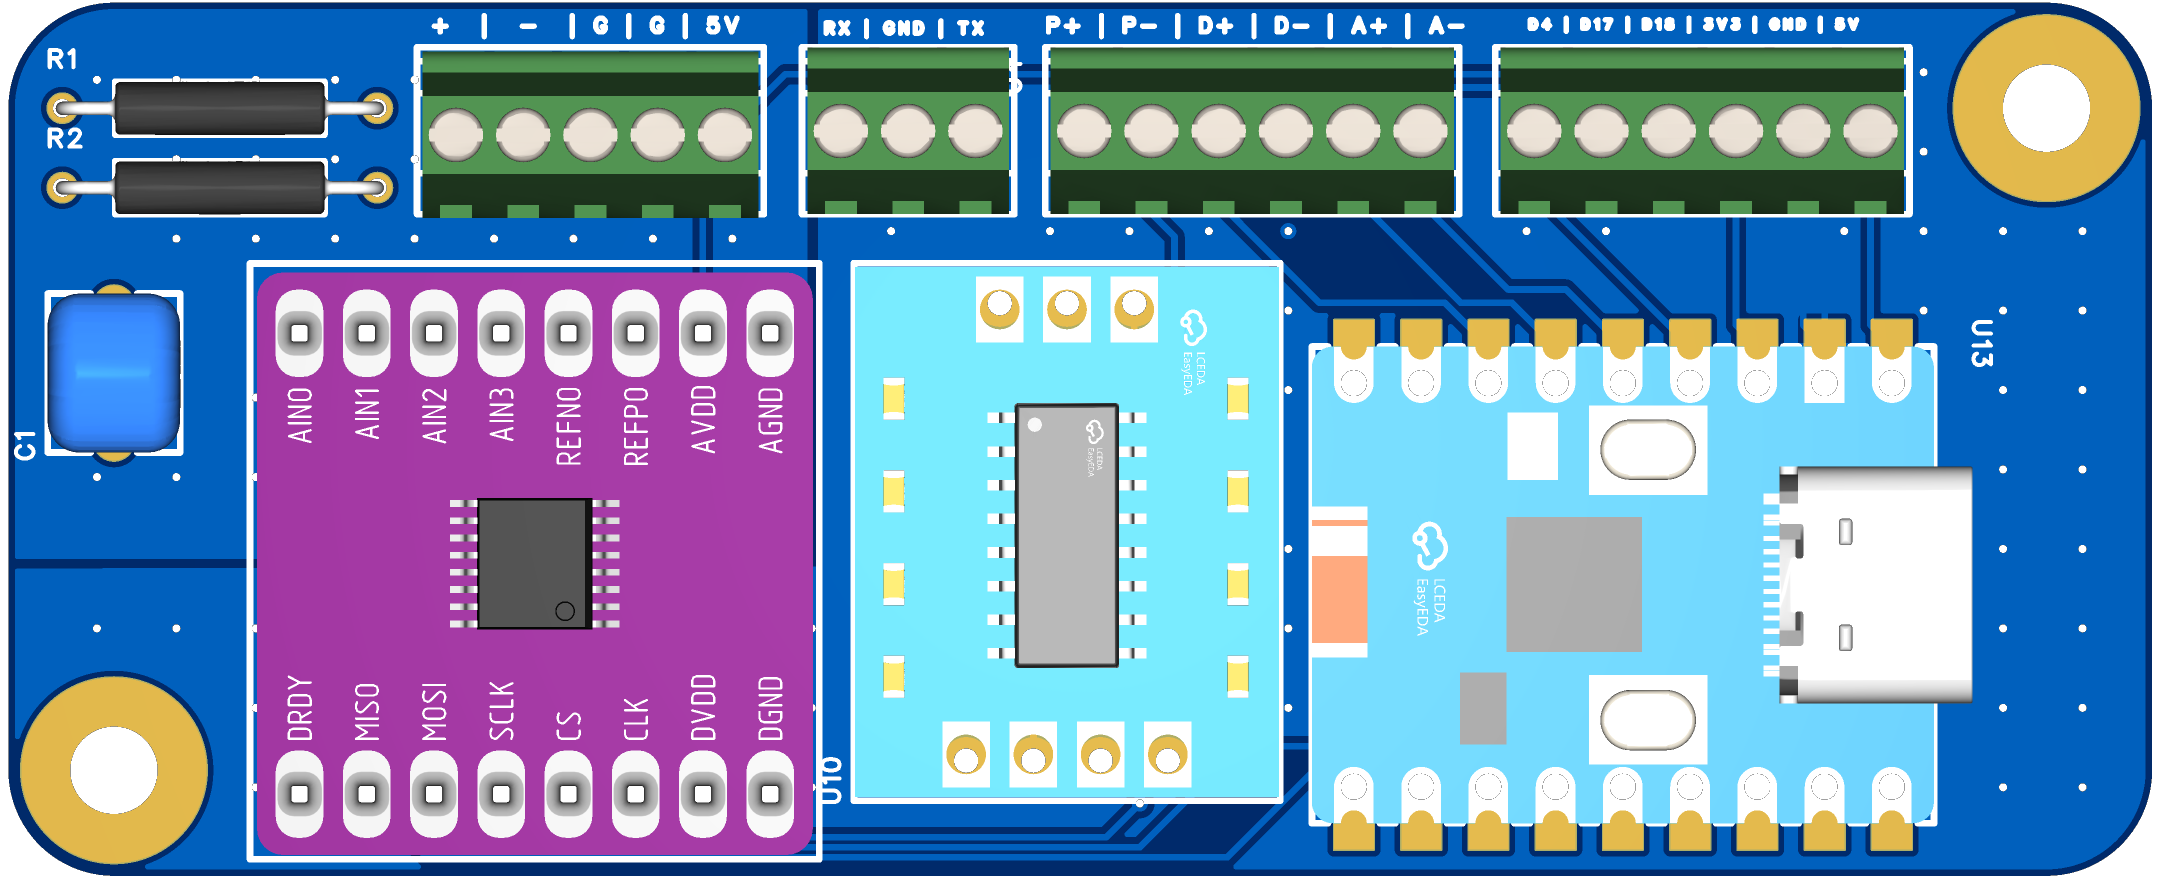
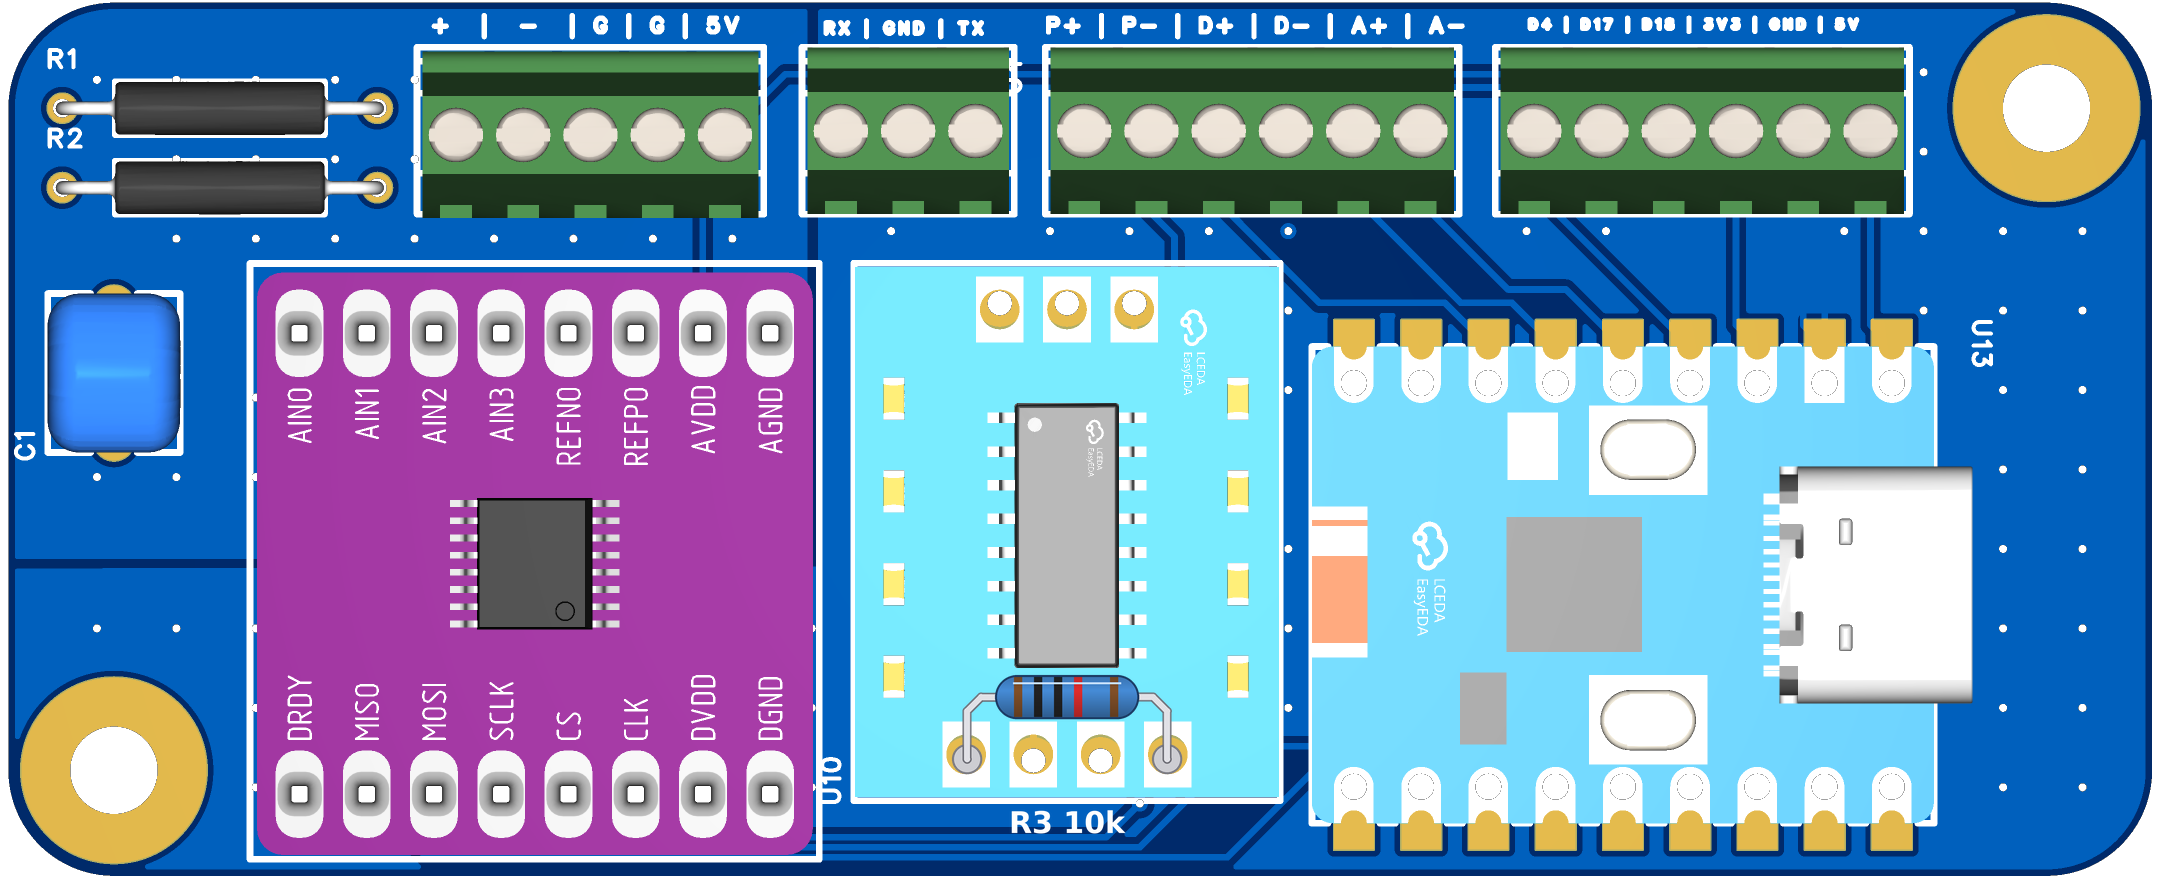
PCB V8: 10 kOhm pull-up on the SP3232 input (R3)
Without a pull-up the SP3232 TTL input RXD (ESP32 TX, GPIO 5) floats
between ESP32 power-on and setup(). The SP3232 reads it as LOW and
drives +5 V (break) to the servo RX; an iSV57 booting at that time goes
into a permanent alarm (red LED). A 10 kOhm resistor from RXD to VCC
(3.3 V) holds the idle level from the first moment.

- Soldering_V8/SP3232_PullUp.md: motivation, measurements (annotated
  oscilloscope traces with and without the pull-up), photos, pin table
  checked against the Gerber files
- Build guide: resistor in the parts list and solder step
- PCB render: R3 drawn between VCC and RXD of the SP3232 module
- Wiring/PcbV8/README: note that R3 is not part of the Gerber files

Changed region(s): [[0.4343, 0.7679, 0.5583, 0.8908], [0.4653, 0.9215, 0.5273, 0.9522]]

diff --git a/Soldering_V8/SP3232_PullUp.md b/Soldering_V8/SP3232_PullUp.md
@@ -1,0 +1,62 @@
+# 🔧 10 kΩ Pull-Up on the SP3232 Input (R3)
+
+A 10 kΩ resistor from the TTL input `RXD` of the SP3232 module to `VCC` (3.3 V) keeps the iSV57 servo from going into a permanent alarm (red LED) when it is switched on. The [build guide](README.md#1⃣-sp3232-assembly) shows how to solder it.
+
+<img src="../Wiring/PcbV8/PCB_V8_3D.png" width="100%">
+
+## ❓ Problem
+
+Sometimes the servo started with its red ALM LED on. In this state it does not move, and homing fails. Only switching its power supply off and on again helped. It only happened while the ESP32 was powered; with the ESP32 disconnected, the servo always started normally.
+
+<img src="img/sp3232_pullup/servo_led_alarm.jpg" width="500">
+
+*Servo with the ALM LED (red) on after power-on, next to the PWR LED (green).*
+
+## 🔍 Cause
+
+The ESP32 talks to the servo through the SP3232 RS232 module. The SP3232 inverts the signal:
+
+| ESP32 TX pin (TTL) | SP3232 RS232 output → servo RX | Meaning |
+| :--- | :--- | :--- |
+| HIGH (3.3 V) | about −5 V | idle ("mark"): the servo starts normally |
+| LOW (0 V) | about +5 V | permanent "space" / break: **the servo starts with the red LED** |
+
+Tests with a sketch that only sets fixed pin levels (no communication at all) showed: if the servo RX sees +5 V while the servo boots, it goes into the alarm. With −5 V it starts normally.
+
+The firmware sets the TX pin HIGH at the very beginning of `setup()`. But between powering on (or resetting) the ESP32 and that line, the ESP32 runs its ROM bootloader, second stage bootloader and the Arduino start-up. During this time the TX pin is an undriven input. The SP3232 already runs and reads it as LOW, so it drives **+5 V** to the servo RX until `setup()` sets the pin HIGH. The same happens while the ESP32 is flashed or if the firmware does not start.
+
+<img src="img/sp3232_pullup/scope_without_pullup.png" width="600">
+
+*Without pull-up. CH1 (yellow): SP3232 RS232 output to the servo RX. After the ESP32 is powered on, the output jumps to +5 V until the firmware sets the TX pin HIGH.*
+
+If the servo boots during this time, e.g. when the PC (USB) and the servo supply are switched on together, or the servo supply rises slowly behind an inrush current limiter, it sees the break and goes into the alarm.
+
+Firmware cannot fix this: no application code runs before `setup()`. It could only make the time shorter (custom bootloader hook), not remove it.
+
+## ✅ Solution
+
+A 10 kΩ pull-up from the SP3232 TTL input `RXD` (= ESP32 TX, GPIO 5 on the V8) to `VCC` (3.3 V) holds the input HIGH while the ESP32 pin is undriven. The SP3232 then outputs −5 V (idle) from the first moment it has power. In operation the UART drives the pin, the pull-up does not disturb the communication.
+
+<img src="img/sp3232_pullup/scope_with_pullup.png" width="600">
+
+*With the 10 kΩ pull-up. The output goes straight from 0 V (SP3232 off) to −5 V (idle) when the ESP32 is powered on. No spike to +5 V.*
+
+<img src="img/sp3232_pullup/sp3232_pullup_soldered.jpg" width="500">
+
+*Pull-up soldered on the SP3232 module (photo of a V7 PCB, the module and its pins are the same on the V8).*
+
+## 📐 Details
+
+* **Value:** 10 kΩ (4.7 kΩ … 10 kΩ work), any 1/4 W through-hole resistor.
+* **Pins on the V8 PCB** (4 pin TTL row of the SP3232, from left to right as seen in the render, checked against the Gerber files):
+
+| Pad | Net | Module label |
+| :--- | :--- | :--- |
+| 1 (left) | 3.3 V | `VCC` ← resistor |
+| 2 | GND | `GND` |
+| 3 | ESP32 GPIO 6 (ESP32 RX) | `TXD` |
+| 4 (right) | ESP32 GPIO 5 (ESP32 TX) | `RXD` ← resistor |
+
+* **VCC must be 3.3 V.** On the V8 PCB the module is supplied with 3.3 V. Never pull the ESP32 pin to 5 V.
+* **Alternative position:** between ESP32 GPIO 5 and 3V3, or on the bottom side of the PCB between the two pads; electrically it is the same.
+* **Without the resistor:** switch the servo supply on a few seconds after the PC, or switch the servo off and on again if its red LED is on.

diff --git a/Soldering_V8/README.md b/Soldering_V8/README.md
@@ -25,6 +25,7 @@ The PCB gerber files can be found [here](../Wiring/PcbV8/DiyFfbPedalPcbV8.zip), 
 | ADS1220 | load cell ADC | 1 per pedal |
 | SP3232 / MAX3232 module | TTL ↔ RS232, for servo communication | 1 per pedal |
 | 100 Ohm resistor | R1 and R2 of the RC filter | 2 per pedal |
+| 10 kOhm resistor | R3, pull-up on the SP3232 input, see [why](SP3232_PullUp.md) | 1 per pedal |
 | Ceramic capacitor 104 (100 nF) | C1 of the RC filter | 1 per pedal |
 | 2.54 mm pitch screw terminals | 5 pin load cell, 3 pin RS232, 6 pin PUL/DIR/ALM (can be combined from 2 and 3 pin blocks) | 1 set per pedal |
 | Pin header | for the modules | |
@@ -36,12 +37,29 @@ See the [electronics BOM](../BOM/Electronics/README.md) for links.
 
 ## 🛠 Build Guide
 
+> [!NOTE]
+> New: a 10 kOhm pull-up resistor (R3) on the SP3232 module, see [step 1](#pull-up-resistor-r3) and [why it is needed](SP3232_PullUp.md).
+
 ### 1⃣ SP3232 Assembly
 Slice off a 3 and a 4 pin header from the header row and put them on the PCB.
 
 Place the SP3232 module on the header pins next.
 
 At first, the top pins have been soldered, afterwards the bottom pins were soldered.
+
+#### Pull-Up Resistor (R3)
+Solder a 10 kOhm resistor between the outer pins of the 4 pin row (TTL side) of the SP3232 module:
+* **Left pin:** `VCC` (3.3 V)
+* **Right pin:** `RXD` (ESP32 TX)
+
+Bend the leads so that the resistor lies flat on the module, above the two middle pins. The leads must not touch the two middle pins (`GND`, `TXD`). The resistor has no polarity.
+
+| Render (R3) | Soldered |
+| :---: | :---: |
+| <img src="img/sp3232_pullup/render_r3_detail.png" width="100%"> | <img src="img/sp3232_pullup/sp3232_pullup_soldered.jpg" width="100%"> |
+
+> [!IMPORTANT]
+> Without this resistor, the servo can start with its red ALM LED on (permanent alarm) when it is switched on at the same time as the ESP32. See [SP3232 pull-up: motivation and measurements](SP3232_PullUp.md).
 
 ### 2⃣ ADS1220 Assembly
 Correct length pin headers came with the ADS1220. Place them on the PCB.

diff --git a/Wiring/PcbV8/README.md b/Wiring/PcbV8/README.md
@@ -4,6 +4,9 @@ The control PCB of one pedal. It holds the ESP32-S3 mini, the ADS1220 load cell 
 
 <img src="PCB_V8_3D.png" width="100%">
 
+> [!IMPORTANT]
+> Solder a 10 kOhm pull-up resistor (R3) between `VCC` and `RXD` of the SP3232 module (TTL side). It is not part of the Gerber files. See [SP3232 pull-up](../../Soldering_V8/SP3232_PullUp.md).
+
 ## 📁 Files
 
 | File | Content |
